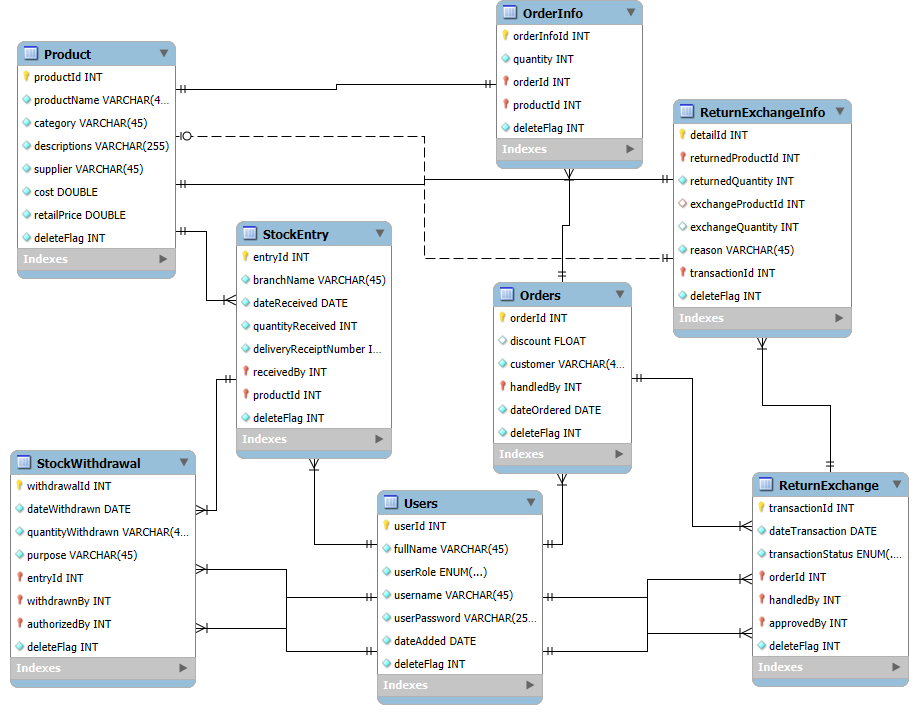
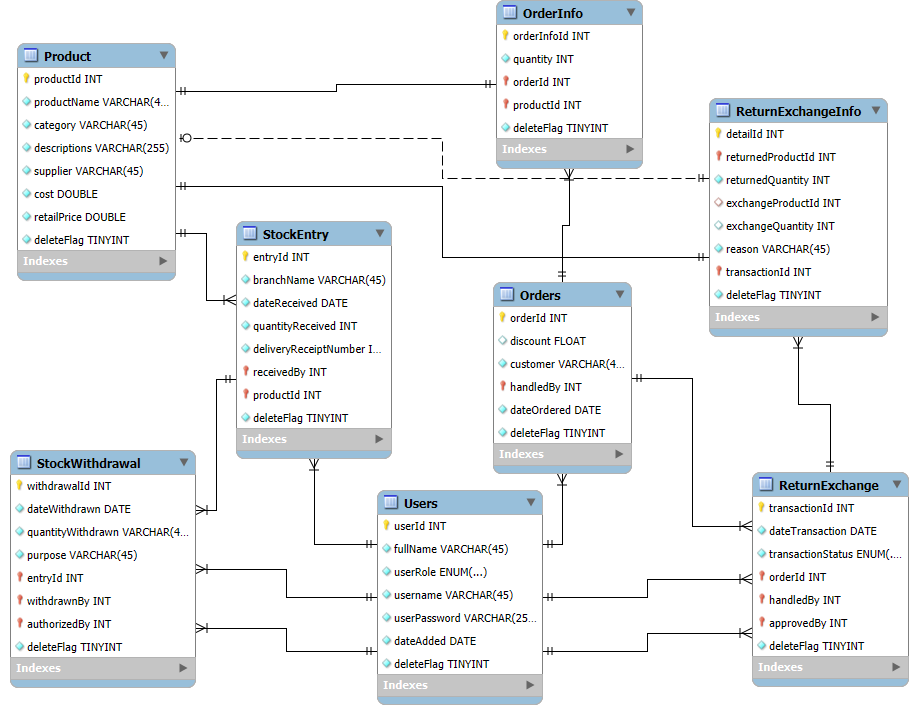
changed datatype of deleteFlag to boolean

diff --git a/backend/controller/returnExchangeController.js b/backend/controller/returnExchangeController.js
@@ -8,11 +8,11 @@ router.post("/createReturnExchange", async(req, res) =>{
     try{
         const {transactionStatus, orderId, handledBy, approvedBy, transactions} = req.body;  
         const dateTransaction = new Date().toISOString().split("T")[0];  
-        const transactionId = await returnExchange.createReturnExchange(dateTransaction, transactionStatus, orderId, handledBy, approvedBy, 1);
+        const transactionId = await returnExchange.createReturnExchange(dateTransaction, transactionStatus, orderId, handledBy, approvedBy, 0);
         for(const transaction of transactions){
             const exchangeProductId = transaction.exchangeProductId ?? null;
             const exchangeQuantity = transaction.exchangeQuantity ?? null;
-            await returnExchangeInfo.createReturnExchangeInfo(transaction.returnedProductId, transaction.returnedQuantity, exchangeProductId, exchangeQuantity, transaction.reason, transactionId, 1);
+            await returnExchangeInfo.createReturnExchangeInfo(transaction.returnedProductId, transaction.returnedQuantity, exchangeProductId, exchangeQuantity, transaction.reason, transactionId, 0);
         }
         res.json({message: "Return Exchange and Return Exchange Info created successfully!", transactionId});
     }catch(err){

diff --git a/backend/controller/ordersController.js b/backend/controller/ordersController.js
@@ -9,9 +9,9 @@ router.post("/createOrders", async(req, res) =>{
     try{
         const {discount, customer, handledBy, items} = req.body;  
         const dateOrdered = new Date().toISOString().split("T")[0];  
-        const orderId = await ordersModel.createOrders(discount, customer, handledBy, dateOrdered, 1);
+        const orderId = await ordersModel.createOrders(discount, customer, handledBy, dateOrdered, 0);
         for(const item of items){
-            await orderInfoModel.createOrderInfo(item.quantity, orderId, item.productId, 1);
+            await orderInfoModel.createOrderInfo(item.quantity, orderId, item.productId, 0);
         }
         res.json({message: "Orders and Order Info created successfully!", orderId});
     }catch(err){

diff --git a/backend/controller/stockEntryController.js b/backend/controller/stockEntryController.js
@@ -7,7 +7,7 @@ router.post("/createStockEntry", async(req, res) =>{
     try{
         const {branchName, quantityReceived, deliveryReceiptNumber, receivedBy, productId} = req.body;
         const dateReceived = new Date().toISOString().split("T")[0];
-        const id = await mysql.createStockEntry(branchName, dateReceived, quantityReceived, deliveryReceiptNumber, receivedBy, productId, 1);
+        const id = await mysql.createStockEntry(branchName, dateReceived, quantityReceived, deliveryReceiptNumber, receivedBy, productId, 0);
         res.json({message: "Stock Entry created successfully!", id});
     }catch(err){
         res.status(500).json({ message: "Error creating Stock Entry" });

diff --git a/backend/controller/stockWithdrawalController.js b/backend/controller/stockWithdrawalController.js
@@ -7,7 +7,7 @@ router.post("/createStockWithdrawal", async(req, res) =>{
     try{
         const {quantityWithdrawn, purpose, entryId, withdrawnBy, authorizedBy} = req.body;
         const dateWithdrawn = new Date().toISOString().split("T")[0];
-        const id = await mysql.createStockWithdrawal(dateWithdrawn, quantityWithdrawn, purpose, entryId, withdrawnBy, authorizedBy, 1);
+        const id = await mysql.createStockWithdrawal(dateWithdrawn, quantityWithdrawn, purpose, entryId, withdrawnBy, authorizedBy, 0);
         res.json({message: "Stock Withdrawal created successfully!", id});
     }catch(err){
         res.status(500).json({ message: "Error creating Stock Withdrawal" });

diff --git a/backend/controller/productController.js b/backend/controller/productController.js
@@ -6,7 +6,7 @@ const router = express.Router();
 router.post("/createProduct", async(req, res) =>{
     try{
         const {productName, category, descriptions, supplier, cost, retailPrice} = req.body;
-        const id = await mysql.createProduct(productName, category, descriptions, supplier, cost, retailPrice, 1);
+        const id = await mysql.createProduct(productName, category, descriptions, supplier, cost, retailPrice, 0);
         res.json({message: "Product created successfully!", id});
     }catch(err){
         res.status(500).json({ message: "Error creating Product" });

diff --git a/backend/controller/userController.js b/backend/controller/userController.js
@@ -7,7 +7,7 @@ router.post("/createUser", async(req, res) =>{
     try{
         const {fullName, userRole, username, userPassword} = req.body;
         const dateAdded = new Date().toISOString().split("T")[0]
-        const id = await mysql.createUser(fullName, userRole, username, userPassword, dateAdded, 1);
+        const id = await mysql.createUser(fullName, userRole, username, userPassword, dateAdded, 0);
         res.json({message: "User created successfully!", id});
     }catch(err){
         res.status(500).json({ message: "Error creating User" });
